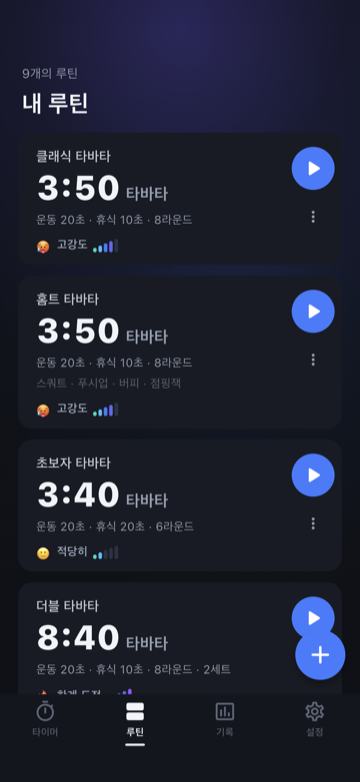
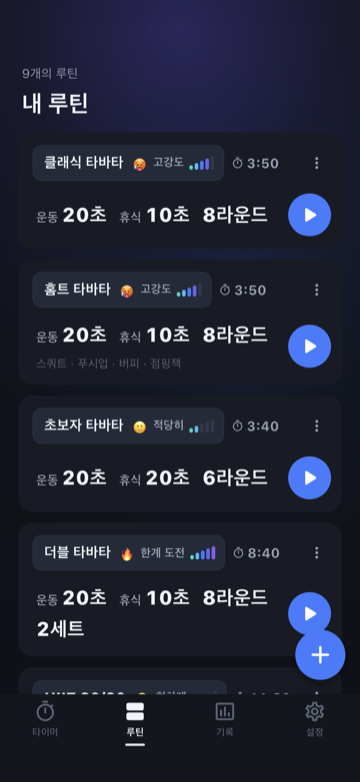
Restructure routine cards around a title box and a large plan
- Title row: the routine name and its expected effort share one box,
  the total time sits beside it small (mode label dropped), the menu at
  the far end.
- The plan — "운동 20초 휴식 10초 8라운드" — is now the large text, values
  emphasized, wrapping only between items; the start button sits beside
  it. Exercise names stay a small line below.
- WorkoutConfig.summaryParts gives the plan as label/value pairs;
  summary is built from it.

Version 1.3.2.

diff --git a/lib/ui/routines/routines_tab.dart b/lib/ui/routines/routines_tab.dart
@@ -83,73 +83,77 @@ class _RoutineCard extends StatelessWidget {
     final total = workoutDurationSec(routine);
     final intensity = estimateIntensity(routine);
     return AppCard(
-      padding: const EdgeInsets.fromLTRB(20, 16, 8, 12),
+      padding: const EdgeInsets.fromLTRB(16, 10, 4, 14),
       onTap: () => openRoutineEditor(context, routine),
-      child: Row(
+      child: Column(
         crossAxisAlignment: CrossAxisAlignment.start,
         children: [
-          Expanded(
-            child: Column(
-              crossAxisAlignment: CrossAxisAlignment.start,
-              children: [
-                Text(
-                  routine.name,
-                  maxLines: 1,
-                  overflow: TextOverflow.ellipsis,
-                  style: const TextStyle(
-                    color: AppColors.cardCaption,
-                    fontSize: 15,
-                    fontWeight: FontWeight.w600,
-                  ),
-                ),
-                const SizedBox(height: 2),
-                Row(
-                  crossAxisAlignment: CrossAxisAlignment.baseline,
-                  textBaseline: TextBaseline.alphabetic,
+          // Title row: name and expected effort boxed together, total time
+          // beside it, the menu at the far end.
+          Row(
+            children: [
+              // Takes everything but the menu; the name gives way first.
+              Expanded(
+                child: Row(
                   children: [
+                    Flexible(
+                      child: _TitleBox(name: routine.name, intensity: intensity),
+                    ),
+                    const SizedBox(width: 8),
+                    const Icon(Icons.timer_outlined, size: 14, color: AppColors.textSecondary),
+                    const SizedBox(width: 3),
                     Text(
                       total == null ? '∞' : formatClock(total),
                       style: const TextStyle(
-                        fontSize: 38,
-                        fontWeight: FontWeight.w800,
-                        fontFeatures: tabularFigures,
-                        height: 1.15,
-                      ),
-                    ),
-                    const SizedBox(width: 6),
-                    Text(
-                      routine.mode.label,
-                      style: const TextStyle(
                         color: AppColors.textSecondary,
-                        fontSize: 18,
+                        fontSize: 15,
                         fontWeight: FontWeight.w700,
+                        fontFeatures: tabularFigures,
                       ),
                     ),
                   ],
                 ),
-                const SizedBox(height: 4),
-                Text(
-                  routine.summary,
-                  style: const TextStyle(color: AppColors.textSecondary, fontSize: 13),
-                ),
-                if (routine.exercises.isNotEmpty) ...[
-                  const SizedBox(height: 4),
-                  Text(
-                    routine.exercises.join(' · '),
-                    maxLines: 1,
-                    overflow: TextOverflow.ellipsis,
-                    style: const TextStyle(color: AppColors.textTertiary, fontSize: 13),
+              ),
+              PopupMenuButton<_MenuAction>(
+                tooltip: '더보기',
+                icon: const Icon(Icons.more_vert, color: AppColors.textSecondary, size: 20),
+                onSelected: (action) => _onMenu(context, action),
+                itemBuilder: (_) => const [
+                  PopupMenuItem(value: _MenuAction.edit, child: Text('편집')),
+                  PopupMenuItem(value: _MenuAction.duplicate, child: Text('복제')),
+                  PopupMenuItem(
+                    value: _MenuAction.delete,
+                    child: Text('삭제', style: TextStyle(color: AppColors.accent)),
                   ),
                 ],
-                if (intensity != null) ...[
-                  const SizedBox(height: 10),
-                  IntensityMeter(level: intensity, compact: true),
-                ],
-              ],
-            ),
+              ),
+            ],
           ),
-          Column(
+          const SizedBox(height: 10),
+          // The plan, large, with the start button beside it.
+          Row(
             children: [
+              Expanded(
+                child: Padding(
+                  padding: const EdgeInsets.only(left: 4),
+                  child: Column(
+                    crossAxisAlignment: CrossAxisAlignment.start,
+                    children: [
+                      _BigSummary(parts: routine.summaryParts),
+                      if (routine.exercises.isNotEmpty) ...[
+                        const SizedBox(height: 6),
+                        Text(
+                          routine.exercises.join(' · '),
+                          maxLines: 1,
+                          overflow: TextOverflow.ellipsis,
+                          style: const TextStyle(color: AppColors.textTertiary, fontSize: 13),
+                        ),
+                      ],
+                    ],
+                  ),
+                ),
+              ),
+              const SizedBox(width: 8),
               Semantics(
                 button: true,
                 label: '${routine.name} 시작',
@@ -167,20 +171,7 @@ class _RoutineCard extends StatelessWidget {
                   ),
                 ),
               ),
-              const SizedBox(height: 6),
-              PopupMenuButton<_MenuAction>(
-                tooltip: '더보기',
-                icon: const Icon(Icons.more_vert, color: AppColors.textSecondary, size: 20),
-                onSelected: (action) => _onMenu(context, action),
-                itemBuilder: (_) => const [
-                  PopupMenuItem(value: _MenuAction.edit, child: Text('편집')),
-                  PopupMenuItem(value: _MenuAction.duplicate, child: Text('복제')),
-                  PopupMenuItem(
-                    value: _MenuAction.delete,
-                    child: Text('삭제', style: TextStyle(color: AppColors.accent)),
-                  ),
-                ],
-              ),
+              const SizedBox(width: 8),
             ],
           ),
         ],
@@ -204,5 +195,87 @@ class _RoutineCard extends StatelessWidget {
         );
         if (ok) store.delete(routine.id);
     }
+  }
+}
+
+/// Routine name with its expected effort, boxed so it reads as the title.
+class _TitleBox extends StatelessWidget {
+  const _TitleBox({required this.name, required this.intensity});
+
+  final String name;
+  final IntensityLevel? intensity;
+
+  @override
+  Widget build(BuildContext context) {
+    return Container(
+      padding: const EdgeInsets.fromLTRB(12, 7, 10, 7),
+      decoration: BoxDecoration(
+        color: AppColors.surfaceHigh,
+        borderRadius: BorderRadius.circular(10),
+        border: Border.all(color: AppColors.border),
+      ),
+      child: Row(
+        mainAxisSize: MainAxisSize.min,
+        children: [
+          Flexible(
+            child: Text(
+              name,
+              maxLines: 1,
+              overflow: TextOverflow.ellipsis,
+              style: const TextStyle(fontSize: 16, fontWeight: FontWeight.w800),
+            ),
+          ),
+          if (intensity != null) ...[
+            const SizedBox(width: 10),
+            IntensityMeter(level: intensity!, compact: true),
+          ],
+        ],
+      ),
+    );
+  }
+}
+
+/// "운동 20초  휴식 10초  8라운드" with the values large; wraps between
+/// items, never inside one.
+class _BigSummary extends StatelessWidget {
+  const _BigSummary({required this.parts});
+
+  final List<({String label, String value})> parts;
+
+  @override
+  Widget build(BuildContext context) {
+    return Wrap(
+      spacing: 14,
+      runSpacing: 2,
+      crossAxisAlignment: WrapCrossAlignment.end,
+      children: [
+        for (final p in parts)
+          Text.rich(
+            TextSpan(
+              children: [
+                if (p.label.isNotEmpty)
+                  TextSpan(
+                    text: '${p.label} ',
+                    style: const TextStyle(
+                      color: AppColors.textSecondary,
+                      fontSize: 14,
+                      fontWeight: FontWeight.w600,
+                    ),
+                  ),
+                TextSpan(
+                  text: p.value,
+                  style: const TextStyle(
+                    color: AppColors.textPrimary,
+                    fontSize: 22,
+                    fontWeight: FontWeight.w800,
+                    fontFeatures: tabularFigures,
+                  ),
+                ),
+              ],
+            ),
+            maxLines: 1,
+          ),
+      ],
+    );
   }
 }

diff --git a/lib/models/workout_config.dart b/lib/models/workout_config.dart
@@ -81,21 +81,29 @@ class WorkoutConfig {
   };
 
   /// Short human summary, e.g. "20초 · 10초 · 8라운드".
-  String get summary {
+  /// The plan in a few label/value pairs, e.g. (운동, 20초), (휴식, 10초),
+  /// ('', 8라운드). The value is the part to emphasize.
+  List<({String label, String value})> get summaryParts {
     const t = formatDurationKo;
     return switch (mode) {
       TimerMode.tabata || TimerMode.interval => [
-        '운동 ${t(workSec)}',
-        if (restSec > 0) '휴식 ${t(restSec)}',
-        '$rounds라운드',
-        if (sets > 1) '$sets세트',
-      ].join(' · '),
-      TimerMode.emom => '${t(workSec)}마다 · $rounds라운드',
-      TimerMode.amrap => '${t(workSec)} 동안 최대 라운드',
-      TimerMode.forTime => workSec > 0 ? '타임캡 ${t(workSec)}' : '타임캡 없음',
-      TimerMode.rest => '휴식 ${t(workSec)}',
+        (label: '운동', value: t(workSec)),
+        if (restSec > 0) (label: '휴식', value: t(restSec)),
+        (label: '', value: '$rounds라운드'),
+        if (sets > 1) (label: '', value: '$sets세트'),
+      ],
+      TimerMode.emom => [(label: '', value: '${t(workSec)}마다'), (label: '', value: '$rounds라운드')],
+      TimerMode.amrap => [(label: '제한 시간', value: t(workSec))],
+      TimerMode.forTime =>
+        workSec > 0 ? [(label: '타임캡', value: t(workSec))] : [(label: '', value: '타임캡 없음')],
+      TimerMode.rest => [(label: '휴식', value: t(workSec))],
     };
   }
+
+  /// [summaryParts] as one line: "운동 20초 · 휴식 10초 · 8라운드".
+  String get summary =>
+      [for (final p in summaryParts) p.label.isEmpty ? p.value : '${p.label} ${p.value}']
+          .join(' · ');
 
   WorkoutConfig copyWith({
     String? id,

diff --git a/lib/ui/settings/settings_tab.dart b/lib/ui/settings/settings_tab.dart
@@ -170,7 +170,7 @@ class SettingsTab extends StatelessWidget {
               const SizedBox(height: 28),
               const Center(
                 child: Text(
-                  '타바타 타이머 1.3.1',
+                  '타바타 타이머 1.3.2',
                   style: TextStyle(color: AppColors.textTertiary, fontSize: 12),
                 ),
               ),

diff --git a/docs/PLANNING.md b/docs/PLANNING.md
@@ -221,7 +221,7 @@ AMRAP: 중앙 하단에 [ +1 라운드 ] 큰 버튼 / For Time: [ 랩 ] [ 완료
 ```
 
 ### 6.5 루틴 / 기록 / 설정 탭
-- **루틴**: 알람 카드 스타일 — 소제목(모드), 큰 숫자(총 시간), 요약(20초·10초·8라운드), 우측 ▶ 버튼과 ⋮ 메뉴, 우하단 레드 FAB(＋).
+- **루틴**: 제목 박스(루틴 이름 + 예상 강도 😤▂▄▆) 옆에 ⏱ 총 시간을 작게, 맨 끝에 ⋮ 메뉴. 그 아래 구성("운동 **20초** 휴식 **10초** **8라운드**")을 값 위주로 크게, 오른쪽에 ▶ 시작 버튼. 운동 이름은 작게 한 줄. 우하단 FAB(＋).
 - **기록**: 이번 주 카드(총 분, 횟수, 🔥스트릭, 요일별 막대 차트) + 날짜별 기록 카드.
 - **설정**: 카드 섹션(사운드 / 타이머 / 화면 / 데이터) + 토글 · 세그먼트 선택.
 
